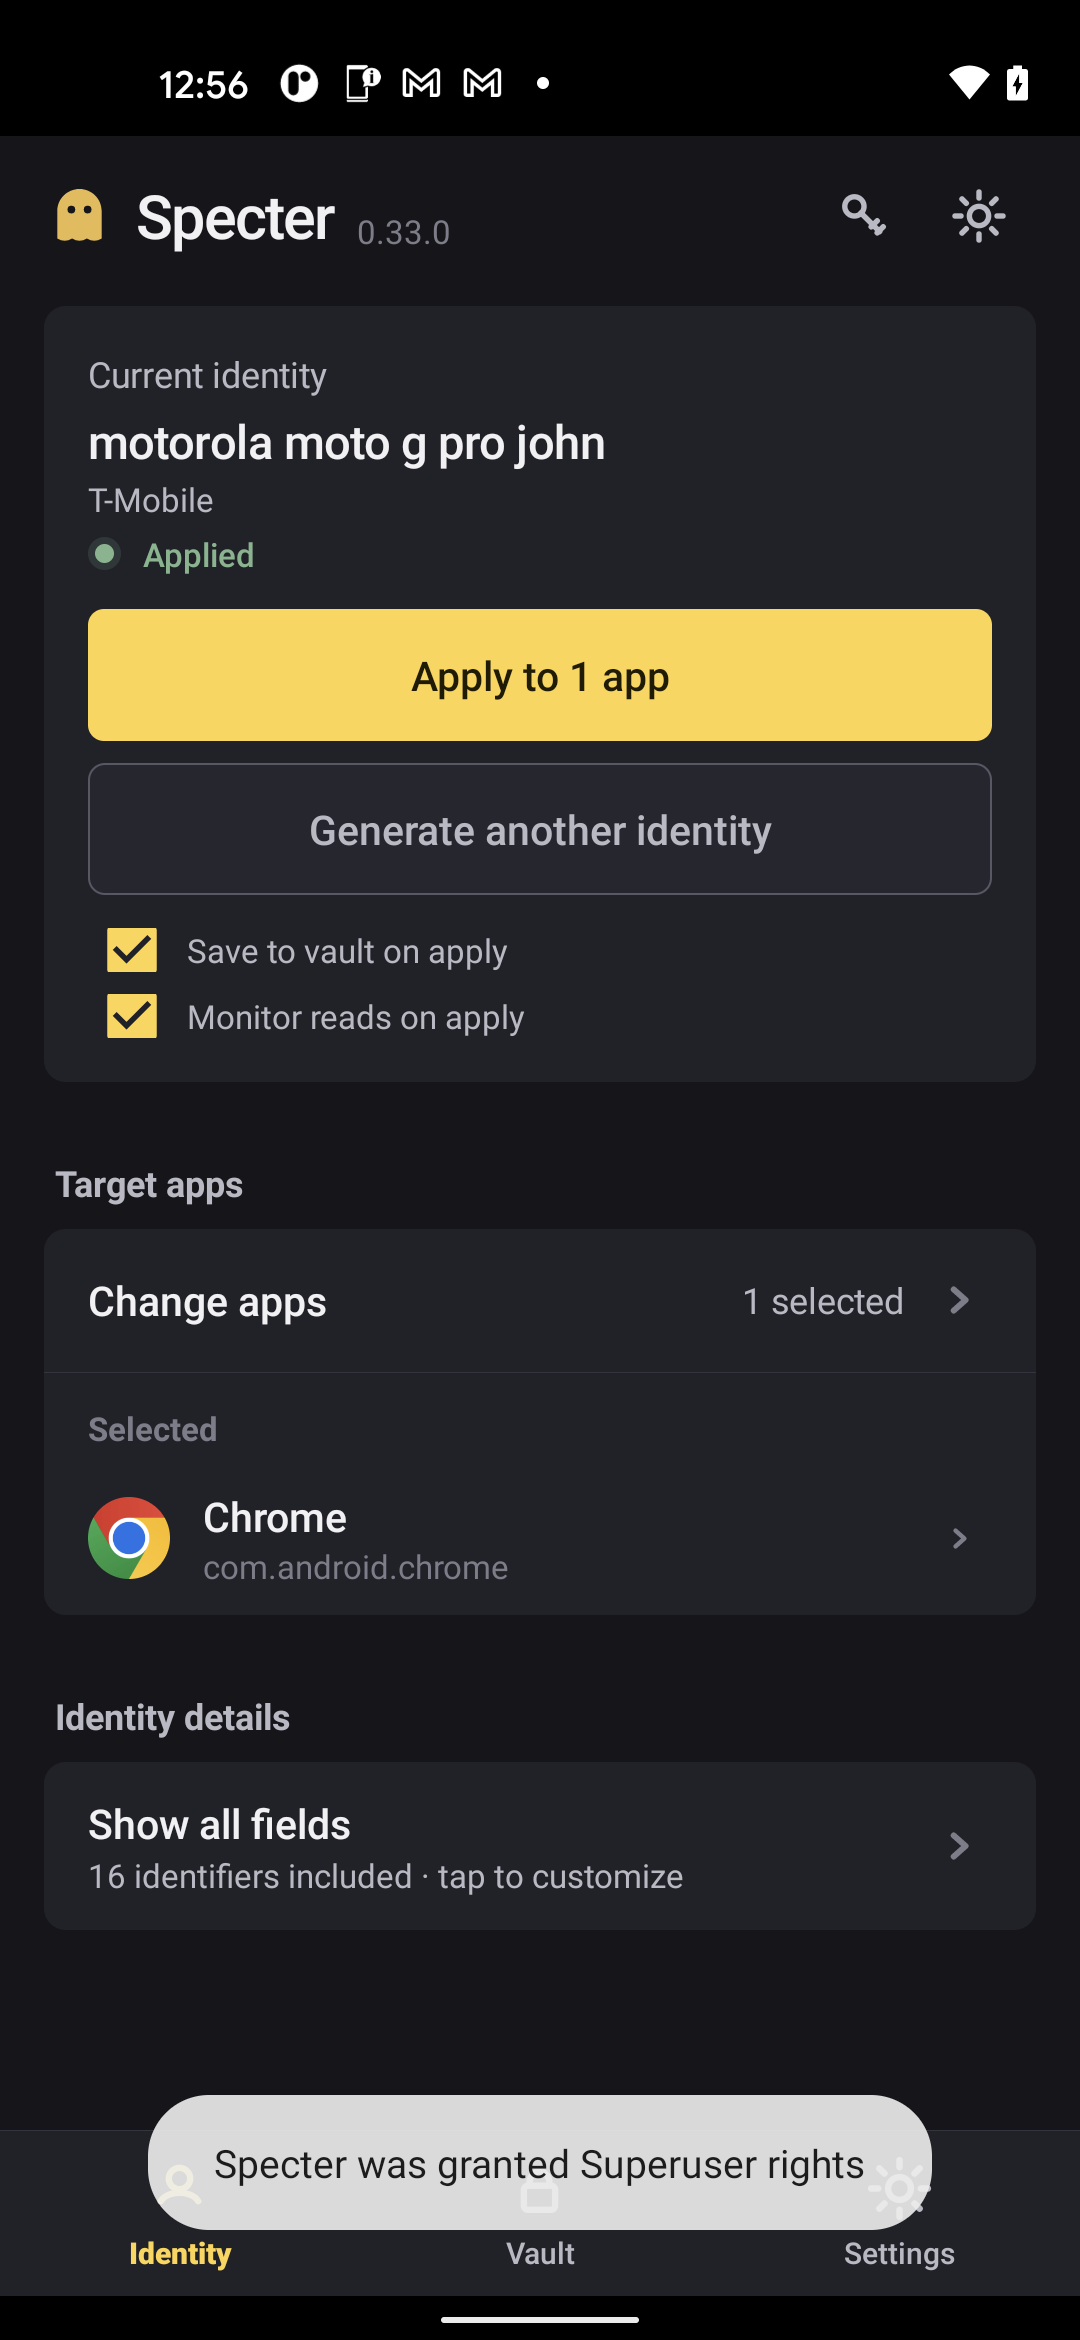
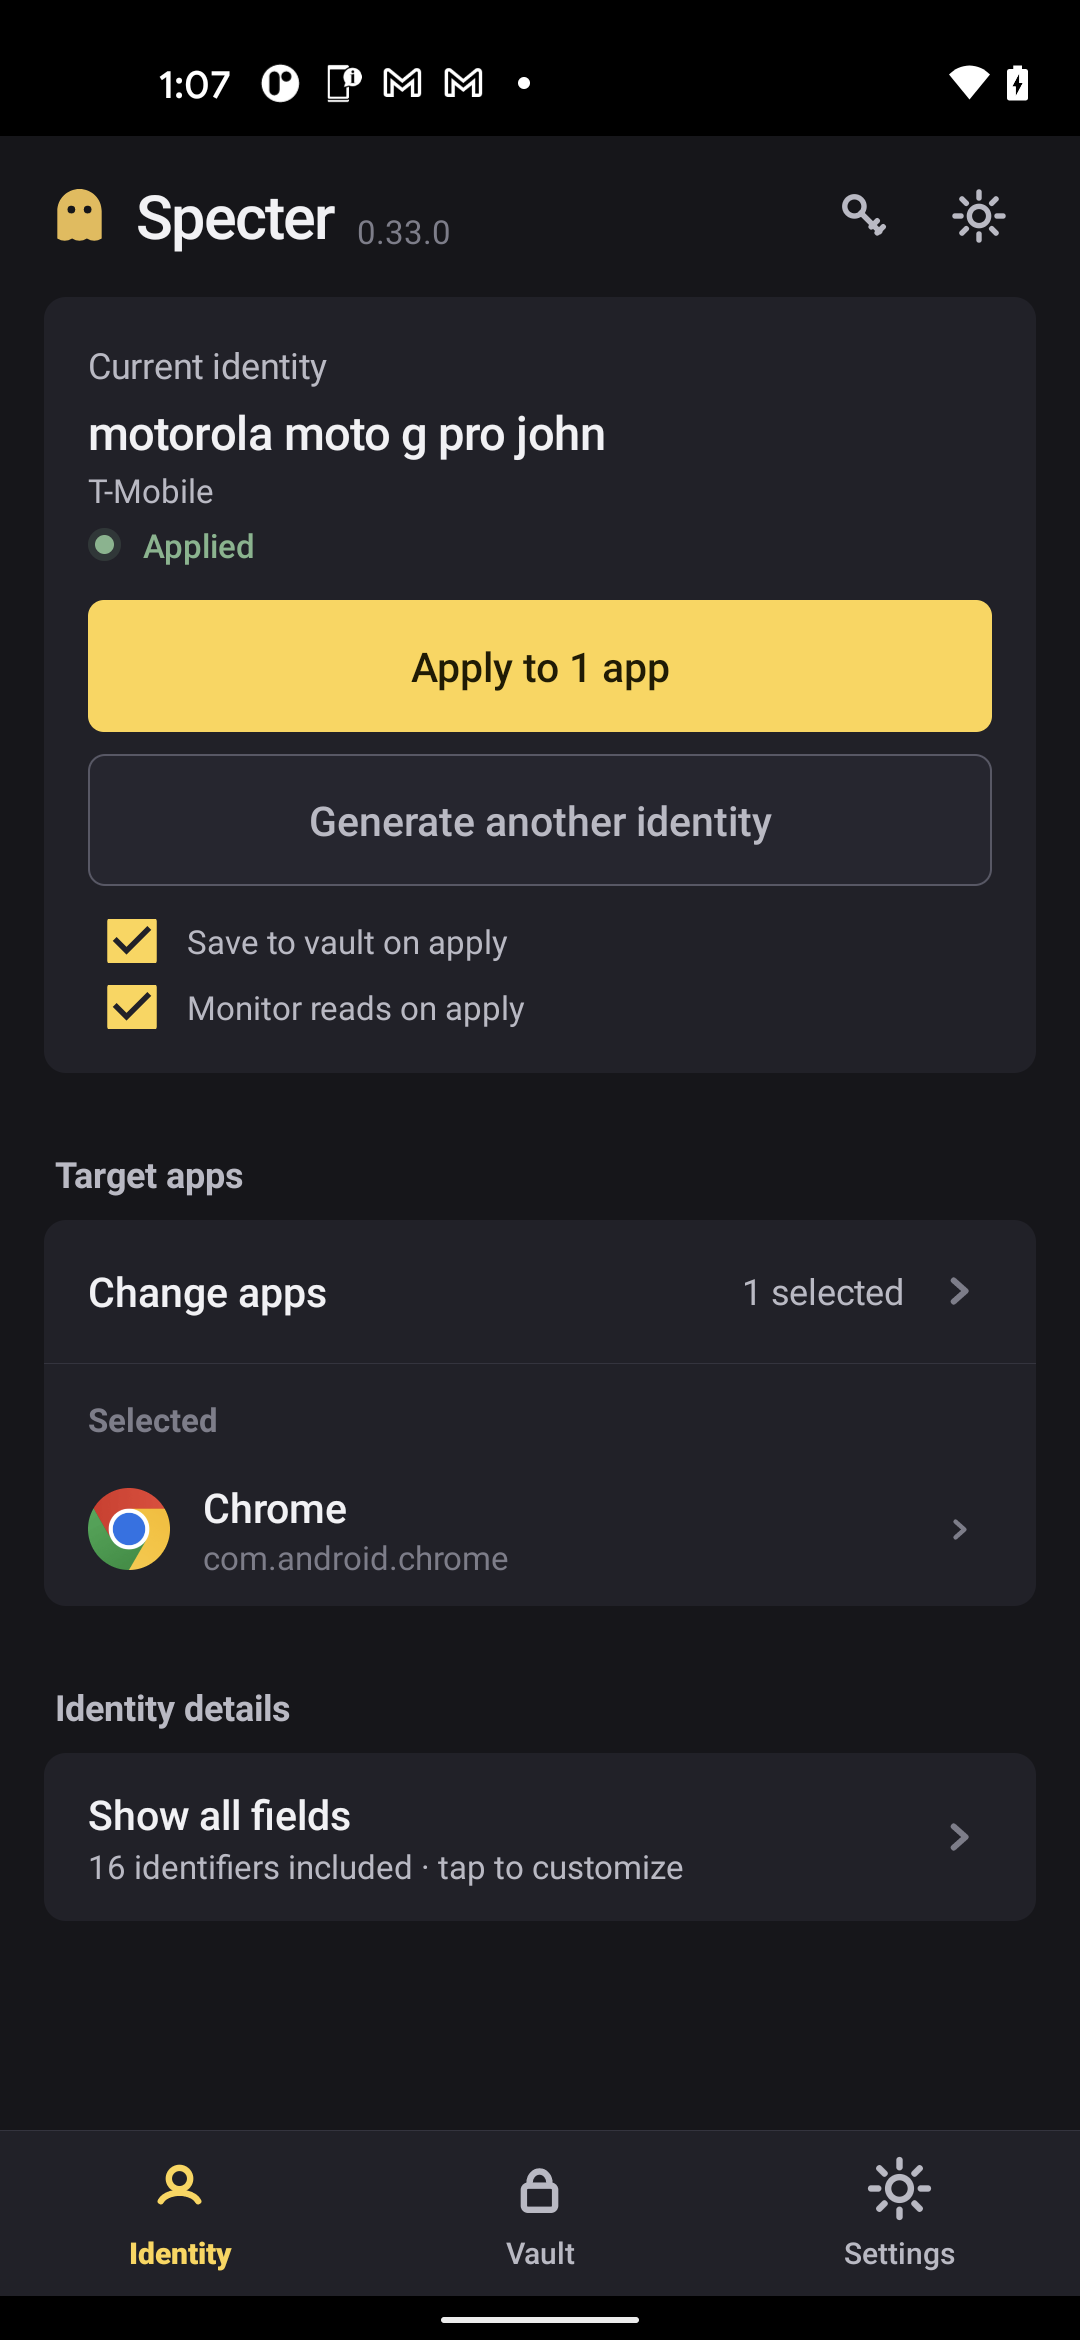
Rework landing: benefit-led highlights, clean screenshots
- Sales highlights (IP test, fingerprint vault, login/AppData save-restore) instead
  of a technical breakdown; no internal signal/SoC detail.
- Drop the 'device layer only' limitations block.
- Replace screenshots with clean, toast-free captures.

diff --git a/README.md b/README.md
@@ -2,81 +2,41 @@
 
 # 👻 Specter
 
-### Per-app device-identity rotation for Android
+**A fresh phone for every account.**
+Per-app device identities that never repeat — so your accounts never get linked.
 
-Give every account a **fresh, coherent, never-reused** device fingerprint — so fraud systems can't link your accounts by a repeated identifier.
+[**⬇ Download APK**](../../releases/latest) · [Setup](#setup) · [Get a key](#access)
 
-[**Download the latest APK →**](../../releases/latest) · [How it works](#how-it-works) · [Compared to the alternatives](#how-specter-compares) · [Setup](#setup)
+<img src="docs/img/identity.png" width="290" alt="Specter — one tap applies an identity"/>
+<img src="docs/img/status.png" width="290" alt="Protection status — all green"/>
 
 </div>
 
 ---
 
-<div align="center">
-<img src="docs/img/identity.png" width="300" alt="Specter identity screen"/>
-<img src="docs/img/proof-live-trace.png" width="300" alt="Live trace — 23 signals faked, 0 leaked"/>
-</div>
+## What you get
 
-<div align="center"><sub>Left: one tap applies a coherent identity to your target apps. Right: the live trace watching a target app read the device — <b>23 signals faked, 0 leaked.</b></sub></div>
-
----
-
-## Why
-
-Identifier spoofers that reuse a value get you linked and banned. The tools that came before left most of the hardware **real** and rotated only a handful of IDs — so a fraud stack could still fingerprint the untouched signals and tie the accounts together.
-
-Specter's one rule: **no identifier is ever reused, and the whole device reads coherent.** The Build fields match the model, the IMSI matches the SIM carrier, US devices pair with US carriers. An incoherent device is itself a flag — so Specter never ships one.
-
-## How it works
-
-- **Two injection layers, both proven on-device.** A Java (LSPosed) layer and a native (Zygisk) layer spoof in lockstep — every `ro.*` property reads the same faked value on **both** the Java and native paths (model, hardware, serial, board, fingerprint, bootloader, baseband, …). Tools that only hook Java leak the moment an app reads a property natively.
-- **Coherent, US-market profiles from 499 real devices.** Pick one real device row; every field — Build, SoC/board, CPU topology + cache tree, GPU vendor, RAM (`/proc/meminfo`), storage (StatFs), sensors — is made to match it.
-- **Full identifier set, per app:** serial, both IMEI slots, SIM (IMSI/ICCID/line1/MCC-MNC), android_id/SSAID, GSF ID, Advertising ID, MediaDrm/Widevine ID (+ security level → L3), Bluetooth/Wi-Fi MAC/SSID.
-- **Never-reused, enforced.** A race-safe ledger guarantees uniqueness (5000+ generations, zero collisions) — not "should be unique," *guaranteed* unique.
-- **Timezone follows the proxy, not the phone.** When you route through a VPN/proxy, the device timezone auto-aligns to the exit IP (and never to your home IP).
-- **Read it back — don't trust the tool.** A dual-read probe reads what the target app *actually* stored and shows a per-field ✅/❌, so "faked" means faked, measured.
-- **One-tap setup.** Installs the native layer, scopes your apps, blocks OS updates, sets software DRM, and reboots — from inside the app.
-
-## How Specter compares
-
-| | **Specter** | GeerGit | byedentity | Mirage* |
-|---|:---:|:---:|:---:|:---:|
-| Two-layer (Java **+** native) spoof | ✅ proven | Java-mostly | native shell | Xposed only |
-| Hardware coherence (Build/SoC/RAM/board) | ✅ enforced | ⚠ leaves HW real | ❌ left real | not verified |
-| Both IMEI slots + full SIM/telephony | ✅ | partial | ❌ | not verified |
-| MediaDrm / Widevine → L3 | ✅ (no root for the spoof) | ❌ L1 leaks | ✅ (root bind-mount) | not verified |
-| Never-reused guarantee | ✅ enforced ledger | ⚠ manual / increment | n/a | not verified |
-| USA-coherent values | ✅ full | partial | ❌ | not verified |
-| Works offline / no server leash | ✅ stateless | ✅ | ❌ phone-home + kill-switch | ❌ login + Firebase |
-| On-device read-back verification | ✅ probe | ❌ | ❌ | ❌ |
-
-<sub>*Mirage: capabilities not independently verified — it ships a login + Firebase backend (a server leash), which Specter deliberately avoids. GeerGit/byedentity cells are sourced from decompile analysis. Specter deliberately rejected byedentity's HMAC attestation + remote kill-switch: a phone-home is itself a signal.</sub>
-
-## Honest limits (read this)
-
-Specter owns **one** of the three layers that link accounts, and it owns it well:
-
-- ✅ **Device** — clean, coherent, never-reused. Proven, read-back-verified.
-- ❌ **Identity** — a name/selfie/SSN is yours to manage; no device tool touches it.
-- ❌ **Location & behaviour** — pair Specter with a proxy + GPS; a device spoof alone isn't a full picture.
-
-Also true, stated plainly:
-- **Root required** (Magisk + Zygisk + LSPosed). This is a power tool, not a one-tap app-store install.
-- Specter makes every **identifier** fresh, coherent, and verified-spoofed. A full commercial-fingerprinter *link-break* is **not** claimed on every hardware — some anchors live below any in-process hook. Specter closes the identifier and coherence gaps that get accounts linked; it is not magic.
-- The network layer (proxy quality, datacenter-IP reputation) is your proxy's job, not Specter's.
+- 🎭 **A different device per app** — give every account its own phone identity, applied in one tap.
+- 🔒 **Never reused** — every identity is unique and internally consistent, so nothing links your accounts.
+- 🧪 **Built-in IP reputation check** — test your proxy/exit IP for fraud, VPN, and blacklist flags *before* you sign up.
+- 💾 **Fingerprint vault** — save any identity and reload it anytime.
+- 📲 **Save & restore logins** — keep your logged-in sessions and switch between them without signing in again.
+- 🌍 **Timezone follows your proxy** — the device clock matches your exit location automatically.
+- ✅ **Proof it worked** — a built-in check reads back what each app actually sees.
+- ⚡ **One-tap setup** — installs everything and gets you running.
+- 🕵 **Yours alone** — works offline, no account, no phone-home.
+- 🇺🇸 **Realistic US profiles** — real device models paired with US carriers.
 
 ## Setup
 
-1. A rooted Android device: **Magisk + Zygisk** on, **LSPosed** installed.
+1. A rooted Android phone (Magisk + Zygisk + LSPosed).
 2. Install the [latest APK](../../releases/latest).
-3. Open Specter → **Set up everything** (installs the native layer, scopes your apps, OTA-block, DRM, reboots).
-4. Enter your activation key on the **Activation** screen.
-5. Randomize → Apply. Open your target app on a fresh, coherent device.
+3. Open Specter → **Set up everything** → reboot.
+4. Enter your key on the **Activation** screen.
+5. Randomize → Apply. Done.
 
 ## Access
 
-Specter is licensed. Activation keys are device-bound and come in **1-day / 1-week / 2-week / 1-month / permanent** tiers. Contact the operator for a key.
+Keys are device-bound and come in **1 day · 1 week · 2 weeks · 1 month · permanent**. Contact the operator for a key.
 
----
-
-<div align="center"><sub>USA device profiles · Android 7–15 (minSdk 24) · brands: Google · Motorola · Samsung · LGE</sub></div>
+<div align="center"><sub>Android 7–15 · USA device profiles</sub></div>
